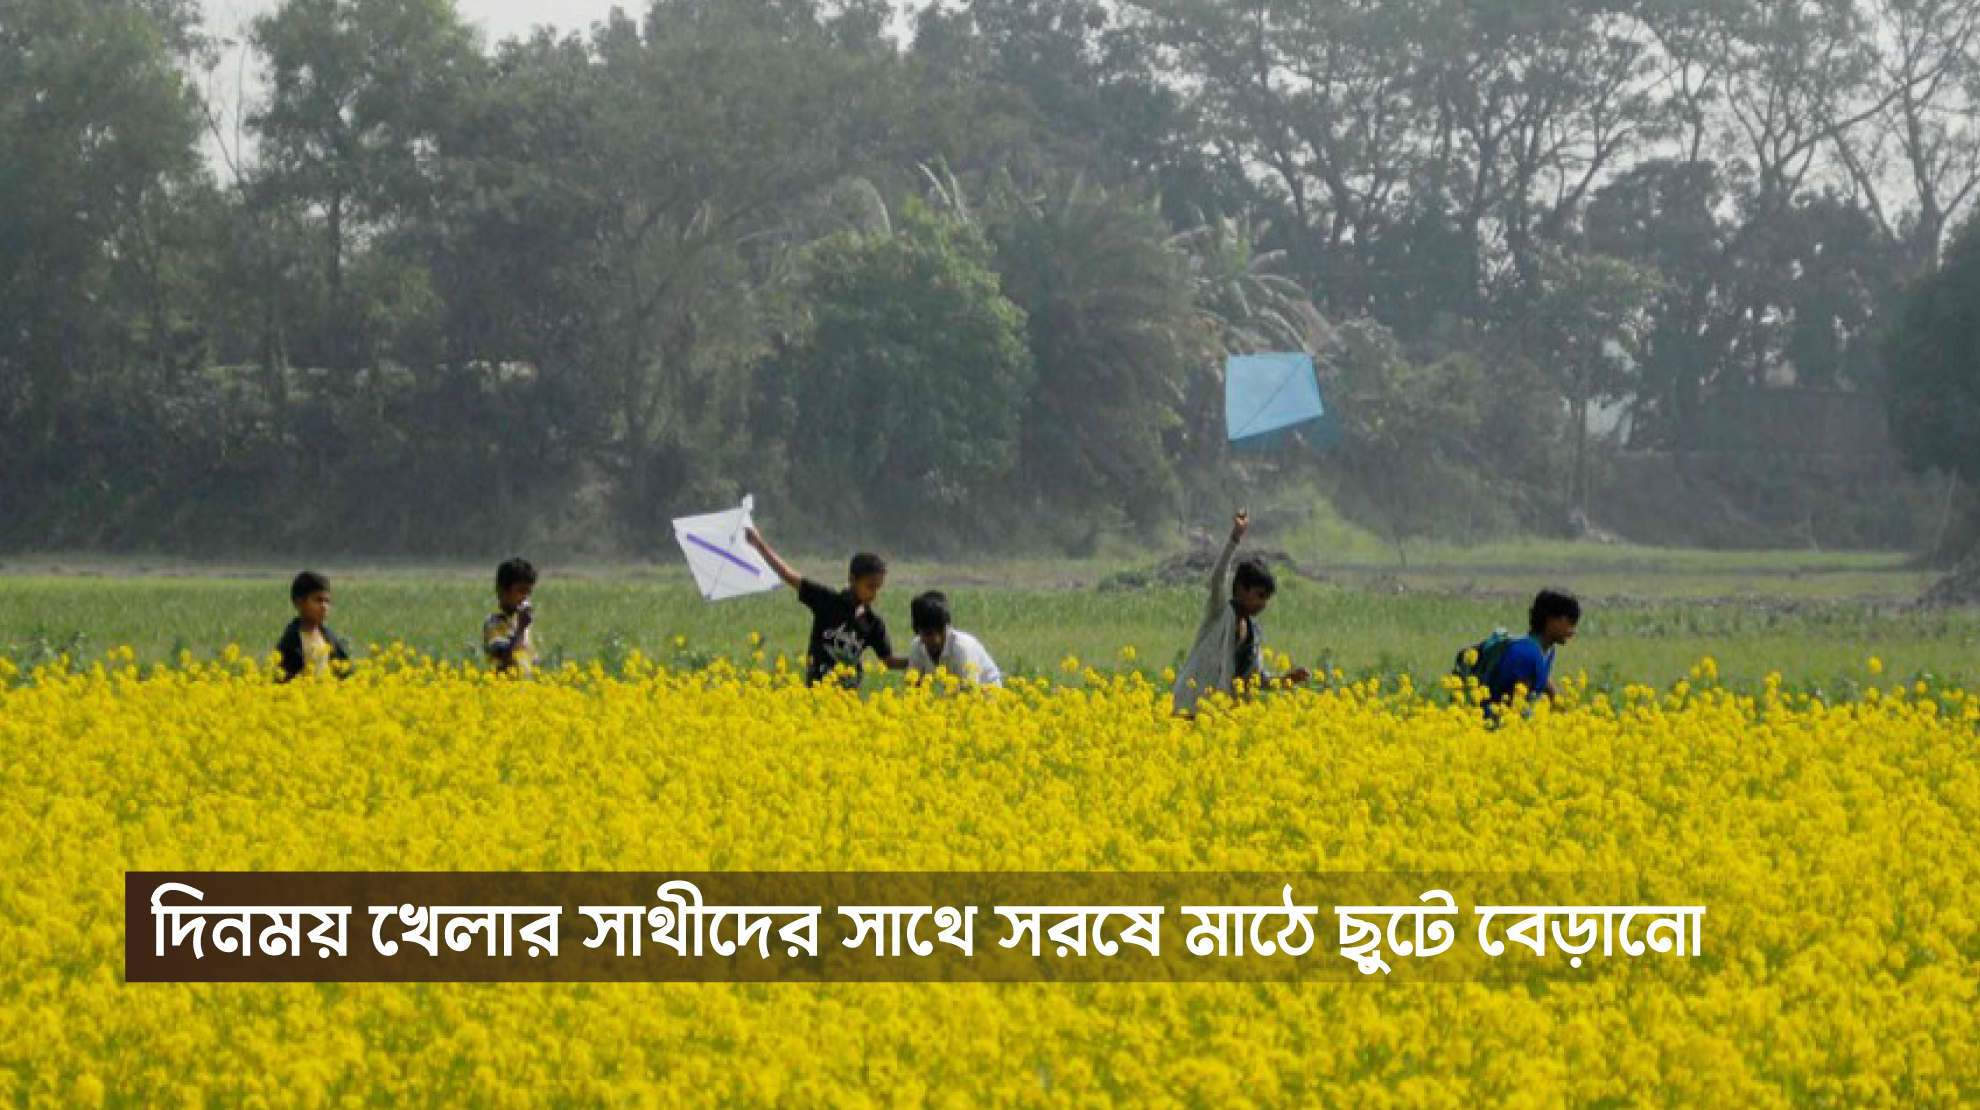
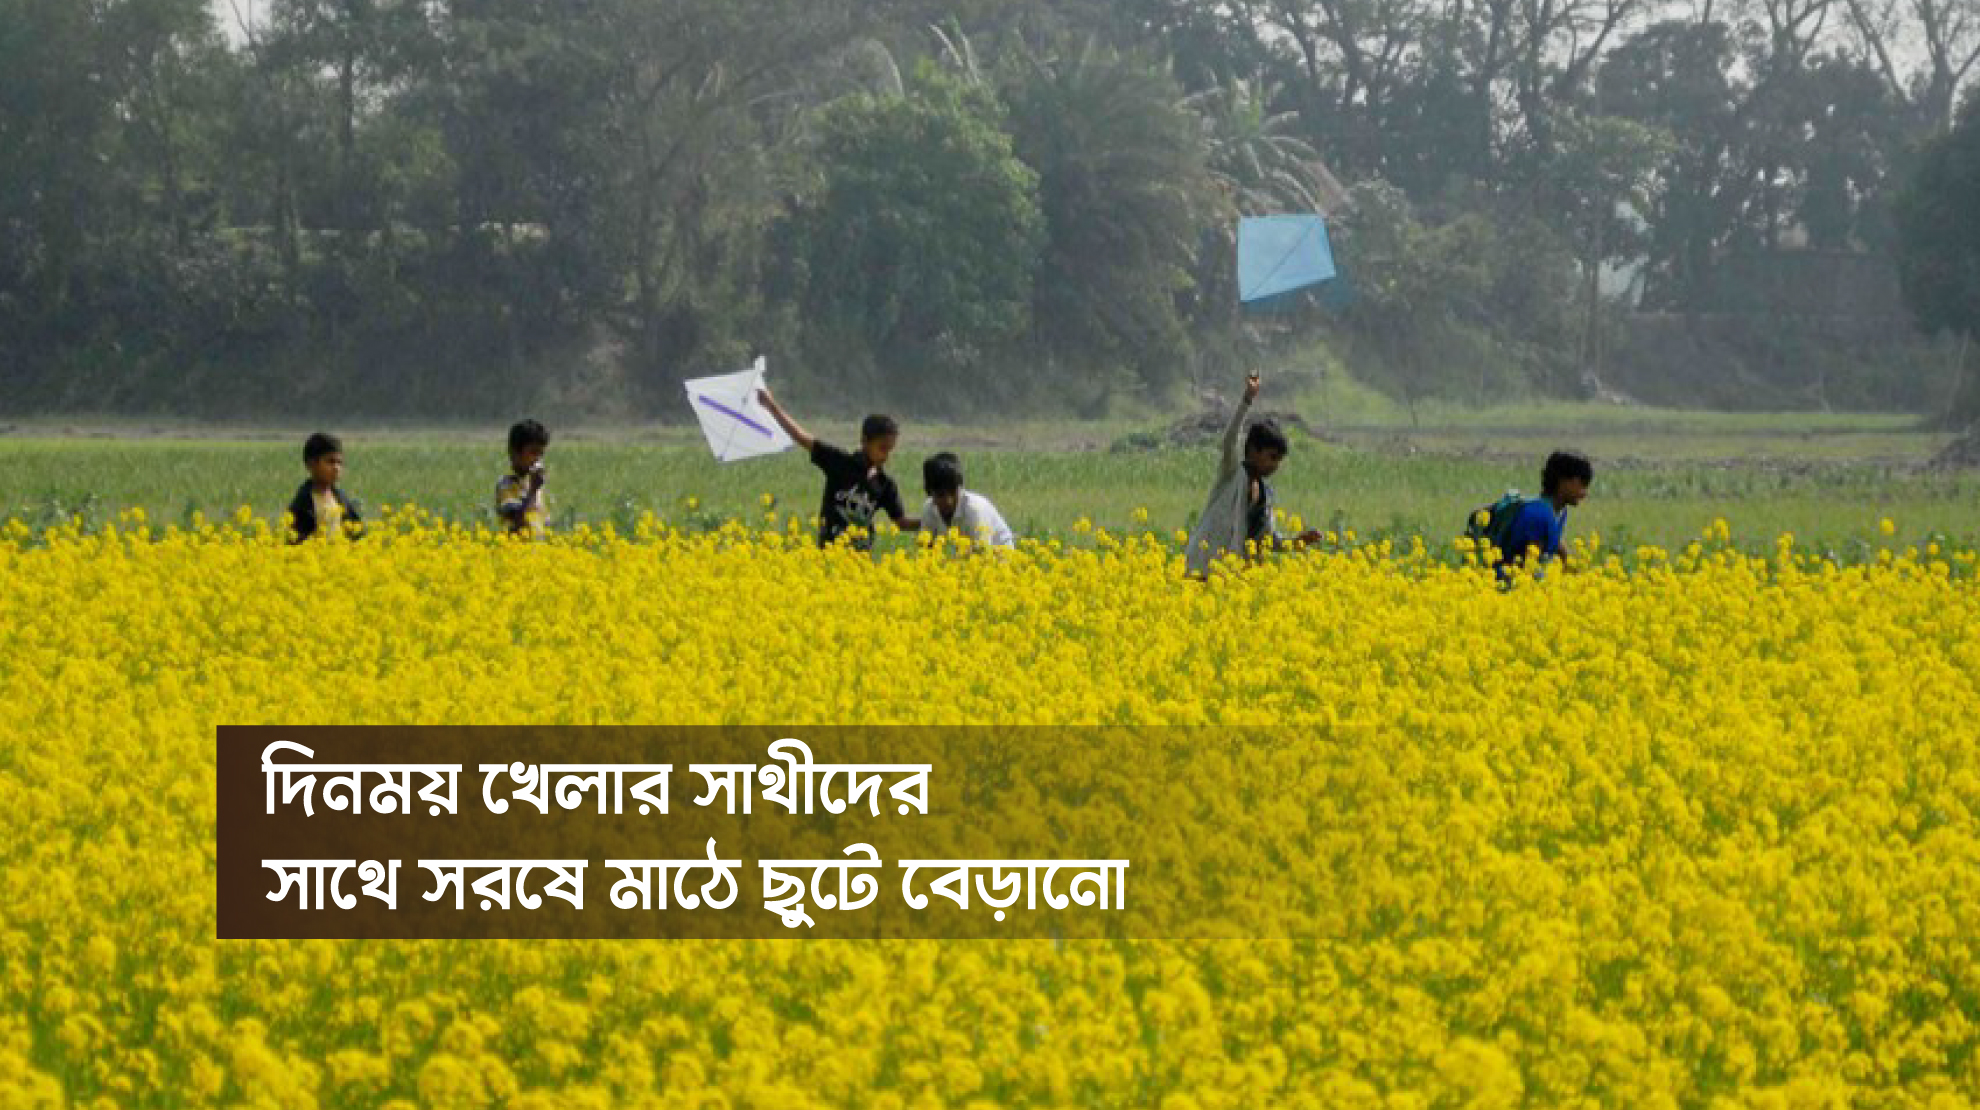
updated

diff --git a/src/views/Slider.js b/src/views/Slider.js
@@ -46,7 +46,6 @@ const Slider = () => {
       content: (
         <div className="img-container">
           <img className="img1" src="slider_img/2slider.jpg" />
-          <img className="img2" src="slider_img/2slider2.jpg" />
 
           <ReactAudioPlayer src={audio2} autoPlay={true} controls={false} />
         </div>
@@ -58,7 +57,6 @@ const Slider = () => {
       content: (
         <div className="img-container">
       <img className="img1" src="slider_img/3slider.jpg" />
-      <img className="img2" src="slider_img/3slider2.jpg" />
       <ReactAudioPlayer src={audio3} autoPlay={true} controls={false} />
     </div>
       ),
@@ -69,7 +67,6 @@ const Slider = () => {
       content: (
         <div className="img-container">
       <img className="img1" src="slider_img/4slider.jpg" />
-      <img className="img2" src="slider_img/4slider2.jpg" />
       <ReactAudioPlayer src={audio4} autoPlay={true} controls={false} />
     </div>
       ),
@@ -80,7 +77,6 @@ const Slider = () => {
       content: (
         <div className="img-container">
       <img className="img1" src="slider_img/5slider.jpg" />
-      <img className="img2" src="slider_img/5slider2.jpg" />
       <ReactAudioPlayer src={audio5} autoPlay={true} controls={false} />
     </div>
       ),
@@ -91,7 +87,6 @@ const Slider = () => {
       content: (
         <div className="img-container">
       <img className="img1" src="slider_img/6slider.jpg" />
-      <img className="img2" src="slider_img/6slider2.jpg" />
       <ReactAudioPlayer src={audio6} autoPlay={true} controls={false} />
     </div>
       ),
@@ -102,7 +97,6 @@ const Slider = () => {
       content: (
         <div className="img-container">
         <img className="img1" src="slider_img/7slider.png" />
-        <img className="img2" src="slider_img/7slider2.png" />
         <ReactAudioPlayer src={audio7} autoPlay={true} controls={false} />
       </div>
       ),
@@ -113,7 +107,6 @@ const Slider = () => {
       content: (
         <div className="img-container">
         <img className="img1" src="slider_img/8slider.png" />
-        <img className="img2" src="slider_img/8slider2.png" />
         <ReactAudioPlayer src={audio8} autoPlay={true} controls={false} />
       </div>
       ),
@@ -124,7 +117,6 @@ const Slider = () => {
       content: (
         <div className="img-container">
         <img className="img1" src="slider_img/9slider.png" />
-        <img className="img2" src="slider_img/9slider2.png" />
         <ReactAudioPlayer src={audio9} autoPlay={true} controls={false} />
       </div>
       ),
@@ -135,7 +127,6 @@ const Slider = () => {
       content: (
         <div className="img-container">
         <img className="img1" src="slider_img/10slider.png" />
-        <img className="img2" src="slider_img/10slider2.png" />
         <ReactAudioPlayer src={audio10} autoPlay={true} controls={false} />
       </div>
       ),
@@ -146,7 +137,6 @@ const Slider = () => {
       content: (
         <div className="img-container">
         <img className="img1" src="slider_img/11slider.png" />
-        <img className="img2" src="slider_img/11slider2.png" />
         <ReactAudioPlayer src={audio11} autoPlay={true} controls={false} />
       </div>
       ),
@@ -157,7 +147,6 @@ const Slider = () => {
       content: (
         <div className="img-container">
         <img className="img1" src="slider_img/12slider.png" />
-        <img className="img2" src="slider_img/12slider2.png" />
         <ReactAudioPlayer src={audio12} autoPlay={true} controls={false} />
       </div>
       ),
@@ -168,7 +157,6 @@ const Slider = () => {
       content: (
         <div className="img-container">
       <img className="img1" src="slider_img/13slider.png" />
-      <img className="img2" src="slider_img/13slider2.png" />
       <ReactAudioPlayer src={audio13} autoPlay={true} controls={false} />
     </div>
       ),
@@ -179,7 +167,6 @@ const Slider = () => {
       content: (
         <div className="img-container">
         <img className="img1" src="slider_img/14slider.png" />
-        <img className="img2" src="slider_img/14slider2.png" />
         <ReactAudioPlayer src={audio14} autoPlay={true} controls={false} />
       </div>
       ),

diff --git a/src/views/slider.css b/src/views/slider.css
@@ -23,9 +23,9 @@
     display: none;
 }
 
-.img2{
+/* .img2{
     display: none;
-}
+} */
 
 @media only screen and (max-width: 768px) {
     .slider{
@@ -44,13 +44,13 @@
       .carousel-root{
         width: 100vh;
       }
-
+/* 
       .img1{
         display: none !important;
     }
       .img2{
         display: block;
-    }
+    } */
 
      .img-container img{
         height: 100%;
